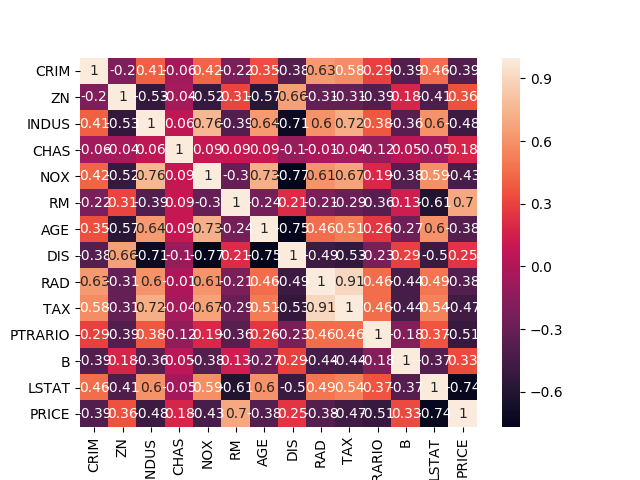
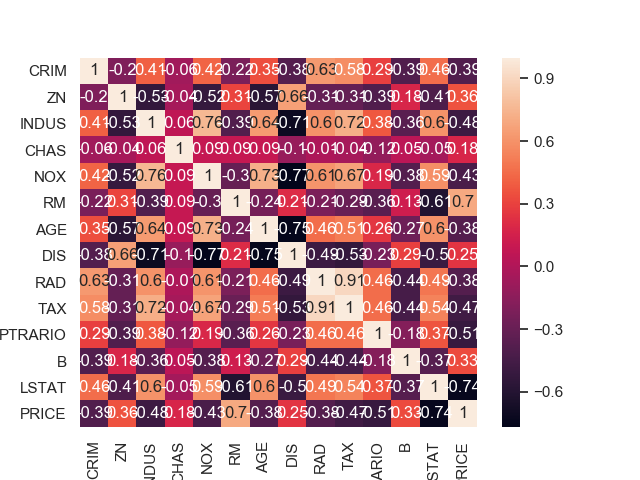
new

diff --git a/generic_parser.py b/generic_parser.py
@@ -79,11 +79,32 @@ print(bostonDF.head())
 import matplotlib.pyplot as plt
 import sklearn
 import seaborn as sns 
-
-from matplotlib import rcParams
+sns.set(color_codes=True)
 
 correlation_matrix = bostonDF.corr().round(2)
 heatmap = sns.heatmap(data=correlation_matrix, annot=True)
 myfig = heatmap.get_figure()
 myfig.savefig('output.png')
+plt.close()
 
+
+#Histogram for each column
+for col in bostonDF: 
+   idx= bostonDF.columns.get_loc(col)
+   sns.distplot(bostonDF[col].values,rug=False,bins=50).set_title("Histogram of {0}".format(col))
+   plt.savefig("./{0}_{1}.png".format(idx,col), dpi=100)
+   plt.close()
+
+
+
+
+#Scatterplot and a regression line for each 2 columns
+   for nxt_col in bostonDF.iloc[:,idx+1:]:
+ 
+      sns.regplot(bostonDF[col], bostonDF[nxt_col], color='g')
+      plt.xlabel('Value of {0}'.format(col))
+      plt.ylabel('Value of {0}'.format(nxt_col))
+      plt.title ('Scatter plot of {0} and {1}'.format(col,nxt_col))
+
+      plt.savefig("./{0}_{1}_{2}".format(idx,col,nxt_col), dpi=200)
+      plt.close()
